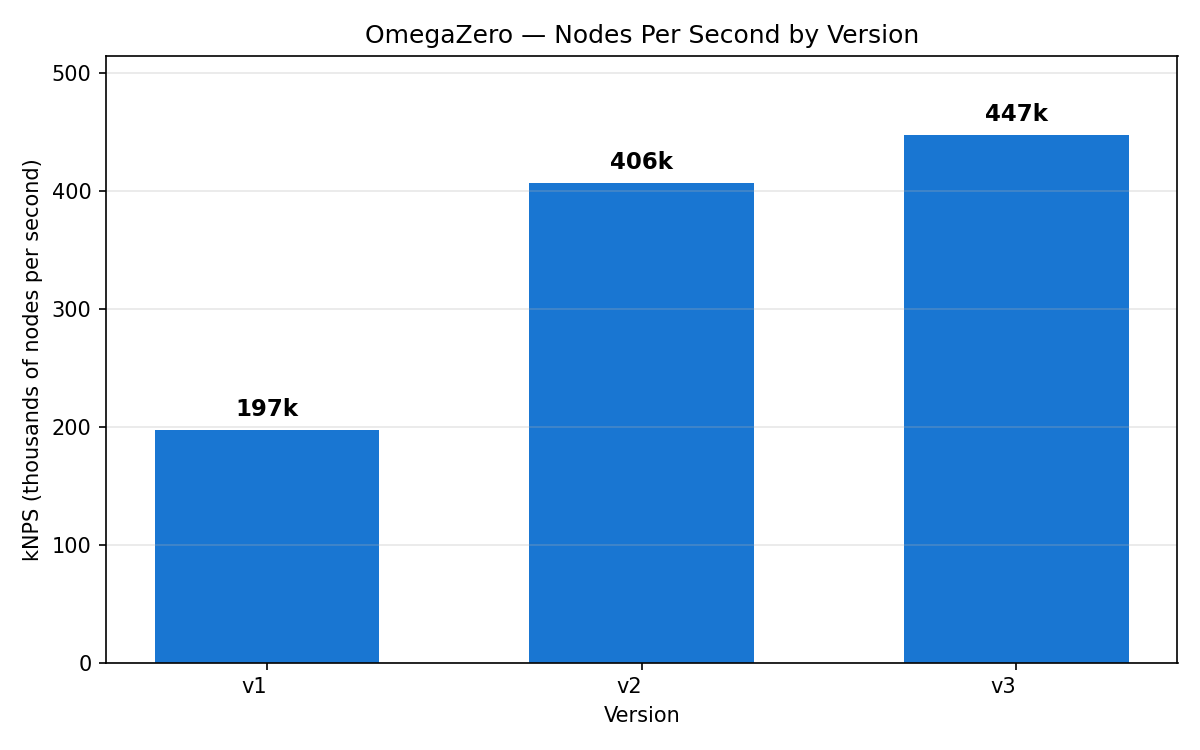
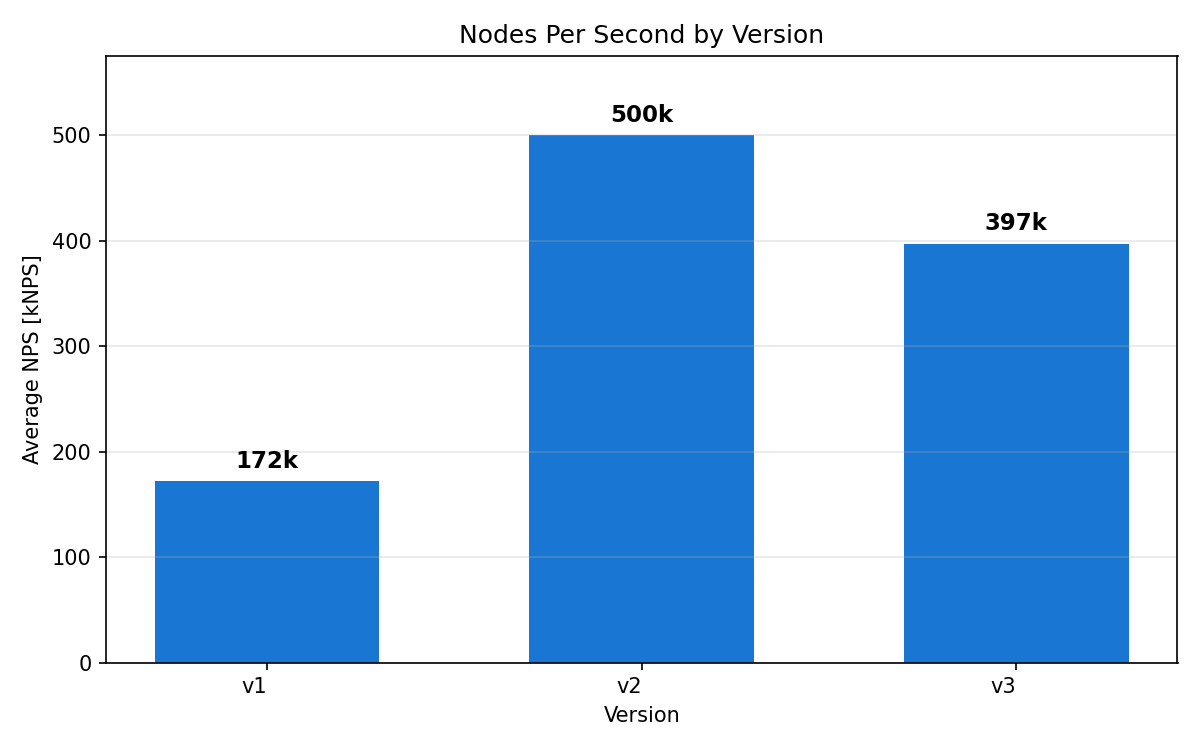
Add NPS version benchmark, update README figures and script docstrings
- Benchmark v1/v2/v3 NPS across four positions, add line chart to README
- Replace separate loss/accuracy plots with side-by-side figure
- Re-run dataset analysis on 6.4M positions, update score distribution
- Add Results sections to search_bench, elo, sprt, depth_vs_time docstrings
- Remove stale figures (1M score dist, nnue_architecture, separate loss/accuracy)

diff --git a/scripts/sprt.py b/scripts/sprt.py
@@ -34,9 +34,14 @@ Outcomes:
     INCONCLUSIVE           — max games reached without a conclusion.
 
 Each opening is played from both sides (-games 2 -repeat) to eliminate
-color bias. Results are saved to results/sprt/ and appended to
-sprt_history.csv. Plots include a W/D/L bar chart and an Elo gain chart
-with 95% confidence interval error bars.
+color bias.
+
+Results are saved to results/sprt/:
+    <run_dir>/games.csv       — individual game results (W/D/L per game).
+    <run_dir>/summary.csv     — matchup summary: W/D/L, Elo diff, SPRT outcome.
+    sprt_history.csv          — cumulative results across all matchups.
+    sprt_gauntlet_wdl.png     — W/D/L bar chart across matchups.
+    sprt_gauntlet_elo.png     — Elo gain chart with 95% CI error bars.
 
 Usage:
     # Compare two tagged versions

diff --git a/scripts/search_bench.py b/scripts/search_bench.py
@@ -20,7 +20,9 @@ Results are saved to results/benchmarking/:
     <run_dir>/nps.csv             — per-position NPS, nodes, and elapsed time.
     <run_dir>/depths.csv          — search depth reached per position.
     version_nps_history.csv       — cumulative average NPS across all versions.
-    version_nps_plot.png          — NPS bar chart across versions.
+    version_nps_by_position.csv   — per-position NPS and depth across all versions.
+    version_nps_plot.png          — average NPS bar chart across versions.
+    version_nps_by_position.png   — per-position NPS line chart across versions.
 
 Usage:
     python3 scripts/search_bench.py run               # 5s/position (default)

diff --git a/scripts/depth_vs_time.py b/scripts/depth_vs_time.py
@@ -6,6 +6,10 @@ Runs bench_harness at increasing search durations and records the depth
 reached per position. Produces a line plot showing how depth scales with
 time for each of the four standard positions.
 
+Results are saved to results/depth_vs_time/<run_dir>/:
+    data.csv                  — search time, position, and depth reached.
+    depth_vs_time.png         — depth vs time line plot per position.
+
 Usage:
     python3 scripts/depth_vs_time.py run                # default time points
     python3 scripts/depth_vs_time.py run --max-time 30   # go up to 30s

diff --git a/scripts/elo.py b/scripts/elo.py
@@ -10,6 +10,11 @@ Subcommands:
     run   — Play matches and generate the Elo estimation plot.
     plot  — Regenerate the plot from an existing run's summary.csv.
 
+Results are saved to results/elo/<run_dir>/:
+    summary.csv               — per-level: elo_level, games, wins, draws, losses, score_rate.
+    games_<elo>.pgn           — raw PGN files per Stockfish level.
+    elo.png                   — logistic curve fit with bootstrap CI.
+
 Usage:
     python3 scripts/elo.py run
     python3 scripts/elo.py run --games 50 --st 0.5      # quick test

diff --git a/README.md b/README.md
@@ -123,8 +123,7 @@ OmegaZero primarily evaluates positions using an [NNUE](https://www.chessprogram
 - Network weights are quantized to `int16` and `int8` for fast integer inference.
 
 <p align="center">
-  <img src="./figs/nnue_loss.png" width="480" alt="NNUE Training Loss">
-  <img src="./figs/nnue_score_accuracy.png" width="480" alt="NNUE Score Accuracy">
+  <img src="./figs/nnue_loss_and_accuracy.png" width="720" alt="NNUE Training Loss and Score Accuracy">
   <br>
   <em>Training loss and score accuracy on a <a href="https://drive.google.com/drive/folders/11guxluj5UL4BMaGmm0CqD-n7u5INT-EE?usp=sharing">6M-position HCE-generated dataset</a>.<sup>3</sup></em>
 </p>
@@ -154,9 +153,6 @@ See [NNUE](#nnue) for training details.
     </a>
   </em>
 </p>
-
-OmegaZero uses [Aspiration Windows](https://www.chessprogramming.org/Aspiration_Windows) with [Principal Variation Search (PVS)](https://www.chessprogramming.org/Principal_Variation_Search) within an [Iterative Deepening](https://www.chessprogramming.org/Iterative_Deepening) framework built on [Negamax](https://www.chessprogramming.org/Negamax) and [Alpha-Beta Pruning](https://www.chessprogramming.org/Alpha-Beta).
-
 
 #### Search Enhancements
 
@@ -209,6 +205,12 @@ Additional pruning techniques include:
 - Precomputed attack tables are used for non-sliding pieces.
 - Sliding piece attacks are generated using the [Magic Bitboard](http://pradu.us/old/Nov27_2008/Buzz/research/magic/Bitboards.pdf) technique.
 - The engine generates [pseudo-legal moves](https://www.chessprogramming.org/Move_Generation#Pseudo-legal), with legality verified during move execution.
+
+<p align="center">
+  <img src="./figs/version_nps_by_position.png" width="600" alt="NPS by Position Across Versions">
+  <br>
+  <em>NPS by Position Across Versions (5s/position, MacBook M4)</em>
+</p>
 
 ### Board Representation
 
@@ -298,7 +300,7 @@ OmegaZero --light-theme -p w
 <p align="center">
   <img src="./figs/light_vs_dark_theme.png" width="600" alt="Light v Dark Theme">
   <br>
-  <em>Terminal Interface on Light and Dartk Backgrounds</em>
+  <em>Terminal Interface on Light and Dark Backgrounds</em>
 </p>
 
 To start from a custom position, add `-i` with a [FEN](https://www.chessprogramming.org/Forsyth-Edwards_Notation) string. Use `w` or `b` in the FEN to set which side moves first:
@@ -387,9 +389,9 @@ make debug
 A pre-built [6M-position training dataset](https://drive.google.com/drive/folders/11guxluj5UL4BMaGmm0CqD-n7u5INT-EE?usp=sharing) is available for download. Place the files in `nnue/data/` and run `train_nnue.py` to train from scratch.
 
 <p align="center">
-  <img src="./figs/data_score_distribution_1M_pos.png" width="600" alt="1M Position Dataset Score Distribution">
+  <img src="./figs/data_score_distribution.png" width="600" alt="6M Position Dataset Score Distribution">
   <br>
-  <em>Example NNUE Dataset Score Distribution</em>
+  <em>NNUE Training Dataset — Score Distribution (6.4M positions)</em>
 </p>
 
 To generate your own data, train, and analyze — config lives in `nnue/config.json` (copy from `nnue/config.json.example`). See each script's `--help` or header comments for options.
